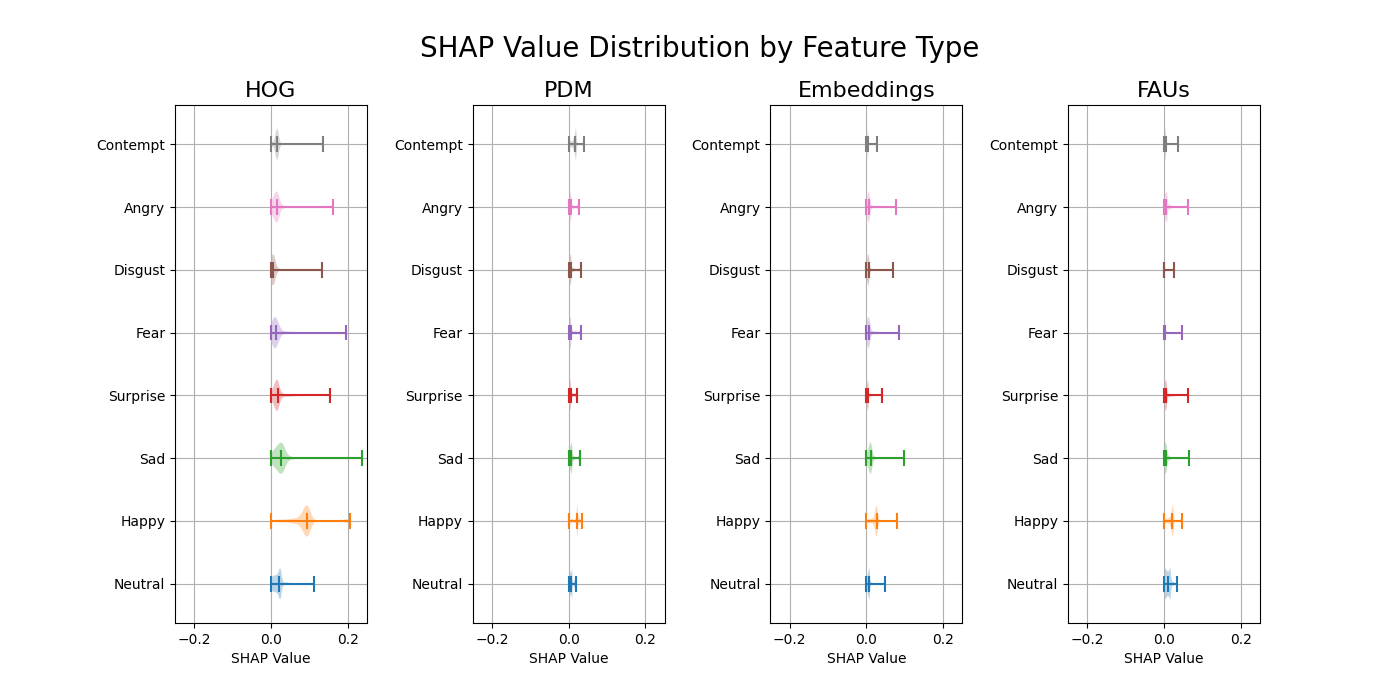
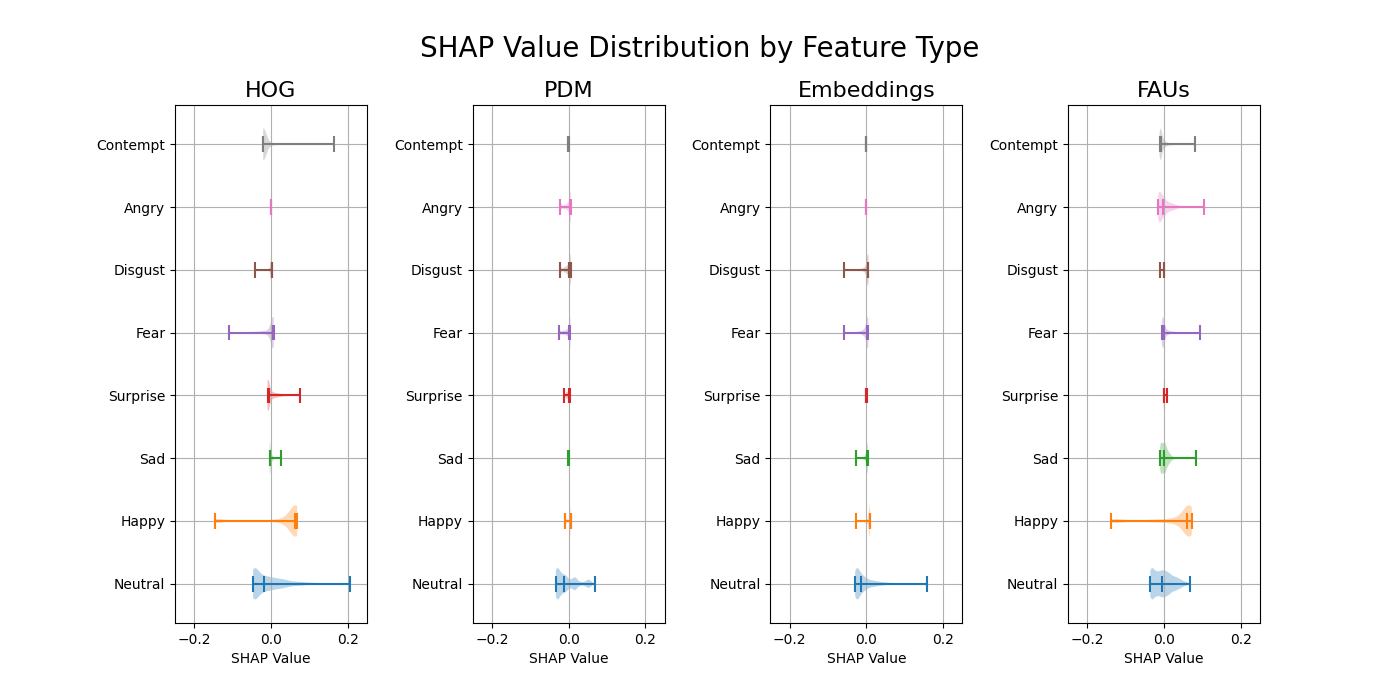
Changes

diff --git a/src/visualizations/shap_visualization.py b/src/visualizations/shap_visualization.py
@@ -12,11 +12,13 @@ emotions = ['Neutral', 'Happy', 'Sad', 'Surprise', 'Fear', 'Disgust', 'Angry', '
 if VARIANT == 0:
     # Only correct predictions, only with the optimal models for stacking
     shap_values = joblib.load('SV_test_correct.joblib')
-    # Aggregate for all classes
+    # Aggregate for all classes, get from (n_samples, n_features, n_classes) to (n_samples, n_features)
+    shap_values = np.mean(np.abs(shap_values.values), axis=2) # find betteR WAY, ABSOLUTE REMOVES DIRECTIONALITY
+    # Not mean, it will be 0, sum
 
-    # find betteR WAY, ABSOLUTE REMOVES DIRECTIONALITY
+    #shap_values = shap_values[:, :, 0]
 
-    shap_values = np.mean(np.abs(shap_values.values), axis=2)
+
 
     models = ['HOG', 'PDM', 'Embeddings', 'FAUs']
 else:
@@ -126,5 +128,5 @@ def violin_plot():
 
     plt.show()
 
-#bar_plot()
+bar_plot()
 #violin_plot()

diff --git a/src/visualizations/cm_visualization.py b/src/visualizations/cm_visualization.py
@@ -15,7 +15,18 @@ key_map = {
 
 # Load normalized confusion matrices for each model/feature
 #confusion_matrices = np.load('cm_matrices.npy', allow_pickle=True).item()
-confusion_matrices = np.load('cm_matrices_not_normalized.npy', allow_pickle=True).item()
+
+# Contains all except facs and pdm
+confusion_matrices = np.load('cm.npy', allow_pickle=True).item()
+
+cm_rest = np.load('cm_matrices_not_normalized.npy', allow_pickle=True).item()
+
+confusion_matrices['facs'] = cm_rest['facs']
+confusion_matrices['pdm'] = cm_rest['pdm']
+
+del cm_rest
+del confusion_matrices['concatenated']
+
 emotions = ['Neutral', 'Happy', 'Sad', 'Surprise', 'Fear', 'Disgust', 'Angry', 'Contempt']
 
 # Get averages for all models except for FACS

diff --git a/src/model_training/torch_neural_network.py b/src/model_training/torch_neural_network.py
@@ -8,18 +8,7 @@ from torch import optim
 class NeuralNetwork(nn.Module):
     def __init__(self, input_dim, class_weight=None, num_epochs=10, batch_size=32, learning_rate=0.001, verbose=0, use_new=True):
         super(NeuralNetwork, self).__init__()
-        """
-        self.layer = nn.Sequential(
-            nn.Linear(input_dim, 128),
-            nn.ReLU(),
-            nn.Dropout(0.5),
-            nn.Linear(128, 64),
-            nn.ReLU(),
-            nn.Dropout(0.5),
-            nn.Linear(64, 8)
-        )
-        
-        """
+
         self.fc1 = nn.Linear(input_dim, 128)
         self.dropout1 = nn.Dropout(0.5)
         self.fc2 = nn.Linear(128, 64)

diff --git a/concatenated_experiment.py b/concatenated_experiment.py
@@ -64,7 +64,10 @@ def load_and_concatenate_features(dataset_type):
     for feature in feature_types.keys():
         logger.info(f'Loading {feature}...')
         # Use memory mapping to load data
-        file_path = f'{args.experiment_dir}/{dataset_type}_{feature}.npy'
+        if feature == 'hog':
+            file_path = f'{args.experiment_dir}/{dataset_type}_{feature}2.npy'
+        else:
+            file_path = f'{args.experiment_dir}/{dataset_type}_{feature}.npy'
 
         if args.load_gpu:
             data = cp.load(file_path, mmap_mode='r').astype(np.float32)
